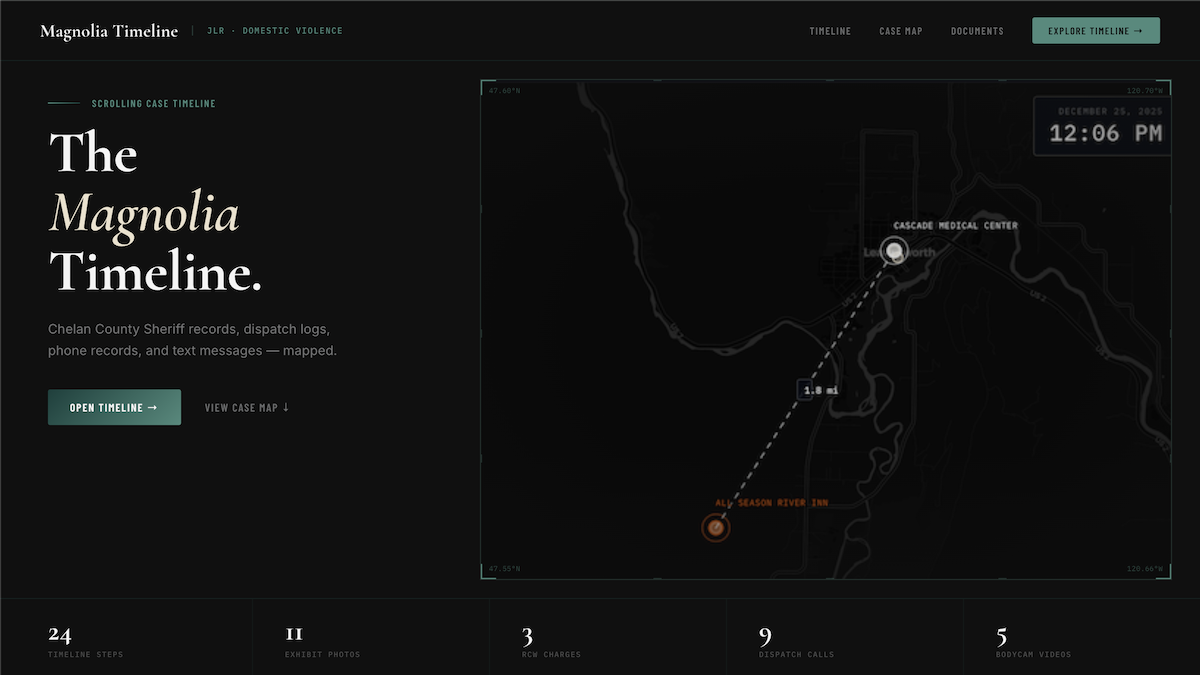
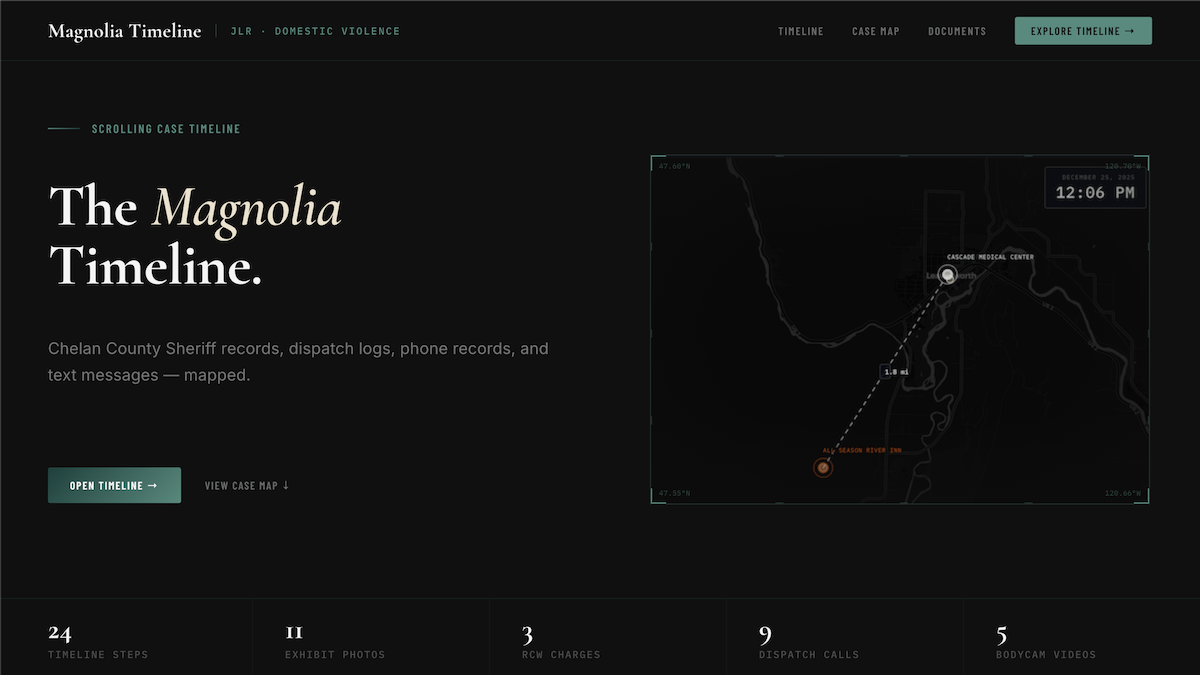
readme and map cross checks

diff --git a/case/magnolia/img/magnolia-preview.html b/case/magnolia/img/magnolia-preview.html
@@ -27,21 +27,21 @@
     border-bottom: 1px solid rgba(18,64,60,0.35);
     display: flex;
     align-items: center;
-    padding: 0 40px;
+    padding: 0 4%;
     z-index: 20;
   }
 
   .nav-brand {
     font-family: 'Cormorant Garamond', serif;
     font-weight: 700;
-    font-size: 18px;
+    font-size: 20px;
     color: #F5F5F5;
     letter-spacing: 0.01em;
   }
 
   .nav-sub {
     font-family: 'IBM Plex Mono', monospace;
-    font-size: 8px;
+    font-size: 10px;
     font-weight: 500;
     letter-spacing: 0.14em;
     text-transform: uppercase;
@@ -60,7 +60,7 @@
 
   .nav-link {
     font-family: 'Barlow Condensed', sans-serif;
-    font-size: 10px;
+    font-size: 11px;
     font-weight: 600;
     letter-spacing: 0.12em;
     text-transform: uppercase;
@@ -69,7 +69,7 @@
 
   .nav-cta {
     font-family: 'Barlow Condensed', sans-serif;
-    font-size: 10px;
+    font-size: 11px;
     font-weight: 600;
     letter-spacing: 0.10em;
     text-transform: uppercase;
@@ -86,7 +86,7 @@
     right: 0;
     bottom: 0;
     display: grid;
-    grid-template-columns: 480px 1fr;
+    grid-template-columns: 1fr 1fr;
     grid-template-rows: 1fr auto;
     z-index: 1;
   }
@@ -99,13 +99,14 @@
     flex-direction: column;
     position: relative;
     z-index: 5;
+    padding-top: 10%;
   }
 
   .eyebrow-line {
     display: flex;
     align-items: center;
     gap: 12px;
-    margin-bottom: 14px;
+    margin-bottom: 8%;
   }
 
   .eyebrow-dash {
@@ -116,7 +117,7 @@
 
   .eyebrow {
     font-family: 'Barlow Condensed', sans-serif;
-    font-size: 10px;
+    font-size: 12px;
     font-weight: 600;
     letter-spacing: 0.14em;
     text-transform: uppercase;
@@ -130,6 +131,7 @@
     line-height: 1.02;
     color: #F5F5F5;
     letter-spacing: -0.01em;
+    margin-bottom: 8%;
   }
 
   .headline em {
@@ -140,10 +142,10 @@
 
   .desc {
     font-family: 'Inter', sans-serif;
-    font-size: 13px;
+    font-size: 16px;
     line-height: 1.65;
     color: rgba(216,218,219,0.50);
-    margin-top: 18px;
+    margin-bottom: 10%;
     letter-spacing: 0.005em;
   }
 
@@ -190,10 +192,11 @@
 
   .map-frame {
     position: absolute;
-    top: 18px;
-    right: 28px;
-    bottom: 18px;
-    left: 0;
+    top: 50%;
+    left: 50%;
+    transform: translate(-50%, -50%);
+    width: 500px;
+    height: 350px;
     border: 1px solid rgba(74,138,124,0.25);
     overflow: hidden;
   }
@@ -323,7 +326,7 @@
 
   .stat-label {
     font-family: 'IBM Plex Mono', monospace;
-    font-size: 7.5px;
+    font-size: 10px;
     font-weight: 500;
     letter-spacing: 0.12em;
     text-transform: uppercase;
@@ -366,14 +369,11 @@
       </div>
 
       <h1 class="headline">
-        The<br>
-        <em>Magnolia</em><br>
-        Timeline.
+        The <em>Magnolia</em> Timeline.
       </h1>
 
       <p class="desc">
-        Chelan County Sheriff records, dispatch logs,<br>
-        phone records, and text messages — mapped.
+        Chelan County Sheriff records, dispatch logs, phone records, and text messages — mapped.
       </p>
 
       <div class="cta-row">

diff --git a/case/magnolia/case-map.html b/case/magnolia/case-map.html
@@ -587,6 +587,7 @@
     'CHARLOTTE, NC': 'Location of a prior domestic violence incident in August 2025 during a work trip, as reported by Jaime to Deputy Talley.',
     'NORTH DAKOTA (EASTBOUND)': 'On December 27, Jaime tracked Jonathan\'s cell phone to North Dakota, driving eastbound. His final destination was unknown.',
     'WASHINGTON, DC': 'A phone number in Washington, DC that JLR called multiple times on December 25 (12:52 AM, 9:12 AM, 9:13 AM, 11:34 AM).',
+    'PASCO COUNTY — PORT RICHEY, FL': 'On December 27, Jaime called the Pasco County Sheriff\'s Office regarding the shared home she and JLR maintained in Port Richey, FL. She then called Rivercom to confirm the case file had been forwarded.',
   };
 
   /* ════════════════════════════════════════════════════════════════════════
@@ -620,6 +621,8 @@
         desc: '<b>Phone Calls</b><br/>JLR called a DC number at 12:52 AM, 9:12 AM, 9:13 AM, and 11:34 AM on Dec 25' },
       { name: 'TIMOTHY RICHES CALLS', coords: [47.5595, -120.6985], color: '#D8DADB',
         desc: '<b>Incoming Calls</b><br/>7 missed calls from Timothy Riches between 12:39–12:44 AM on Dec 25' },
+      { name: 'PASCO COUNTY — PORT RICHEY, FL', coords: [28.2639, -82.7262], color: '#ebe2cd',
+        desc: '<b>Shared Home / Sheriff Contact</b><br/>Dec 27 — Jaime called Pasco County Sheriff re: shared home in Port Richey, FL' },
     ],
   };
 

diff --git a/case/magnolia/timeline.html b/case/magnolia/timeline.html
@@ -476,10 +476,6 @@
     <div class="step-title">Charlotte, North Carolina</div>
     <div class="person-pill"><span class="dot" style="background:var(--amber)"></span> Jaime Phillips</div>
     <p>Jaime was on a work trip with Jonathan in Charlotte. She first discovered his infidelity and confronted him. He attacked her in the hotel and drove their rental car back to Florida, where they live. Jaime stated there is a long history of assaults in their almost 3-year dating relationship.</p>
-    <figure class="step-figure">
-      <img src="photos/01-prior-injury.png" alt="Jaime's black eye from August 2025 assault in Charlotte" loading="lazy" />
-      <figcaption>Prior injury &mdash; August 2025, Charlotte, NC</figcaption>
-    </figure>
     <div class="loc-strip">
       <div class="loc-pill"><span class="dot" style="background:var(--amber)"></span><span class="who">Jaime</span> <span class="where">Charlotte, NC</span></div>
       <div class="loc-pill"><span class="dot" style="background:var(--red)"></span><span class="who">JLR</span> <span class="where">Charlotte, NC</span></div>
@@ -500,7 +496,7 @@
     </div>
   </div>
 
-  <!-- STEP 3: The Assault -->
+  <!-- STEP 2: The Assault -->
   <div class="step" data-step="3" data-border="var(--red)" data-map-focus="hotel">
     <div class="step-time">11:00 PM &ndash; 12:00 AM</div>
     <div class="step-title">The Assault</div>

diff --git a/case/magnolia/README.md b/case/magnolia/README.md
@@ -14,14 +14,20 @@ Phillips reported a prior incident in August 2025 in Charlotte, NC during a work
 
 | Date/Time | Event |
 |---|---|
+| **Dec 22** | JLR and Jaime arrive in Seattle, WA and head to Leavenworth |
 | **Dec 24, 11 PM–12 AM** | Assault at All Season River Inn, Shenandoah room |
 | **Dec 25, 12:39–12:44 AM** | 7 missed calls from Timothy Riches to JLR's work phone |
+| **Dec 25, 12:52 AM** | JLR calls Washington, DC number and Jaime from his personal phone |
+| **Dec 25, 9:12 AM** | JLR calls Washington, DC again |
 | **Dec 25, 9:18 AM** | Jaime calls Rivercom Dispatch — domestic disturbance |
 | **Dec 25, 9:33 AM** | Deputy K. Talley arrives on scene |
-| **Dec 25, ~10:05 AM** | Jaime transported to Cascade Medical Center |
-| **Dec 25, 10:21 AM** | TELETYPE cross-reference initiated |
-| **Dec 25, mid-day** | Hotel manager Tony Smith contacts dispatch after JLR calls front desk |
+| **Dec 25, ~9:40 AM** | Crime scene documented — blood on wall, towels, nightstand, sink |
+| **Dec 25, ~10:21 AM** | Deputy Talley contacts Jaime; TELETYPE cross-reference initiated |
+| **Dec 25, 11:34 AM–12:06 PM** | JLR texts from unknown location ("Worst moment ever," "You ruined this Christmas") |
+| **Dec 25, ~12:06 PM** | ATL issued for JLR; Deputy Talley meets Jaime at Cascade Medical Center |
+| **Dec 25, 1:42–2:16 PM** | JLR texts: "Hello Magnolia. Where you at?" |
 | **Dec 25, 1:53 PM** | Jaime discharged, returned to hotel; room code changed |
+| **Dec 25, mid-day** | Hotel manager Tony Smith contacts dispatch after JLR calls front desk |
 | **Dec 25, 3:18 PM** | Deputy Talley signs affidavit — Assault 2nd Degree DV, Harassment/Threats to Kill DV, Interfering with DV Reporting |
 | **Dec 26, morning** | JLR texts Jaime: "I'm in trouble. What did you do?" |
 | **Dec 26, mid-day** | JLR calls/emails/texts hotel owners trying to access the room |
